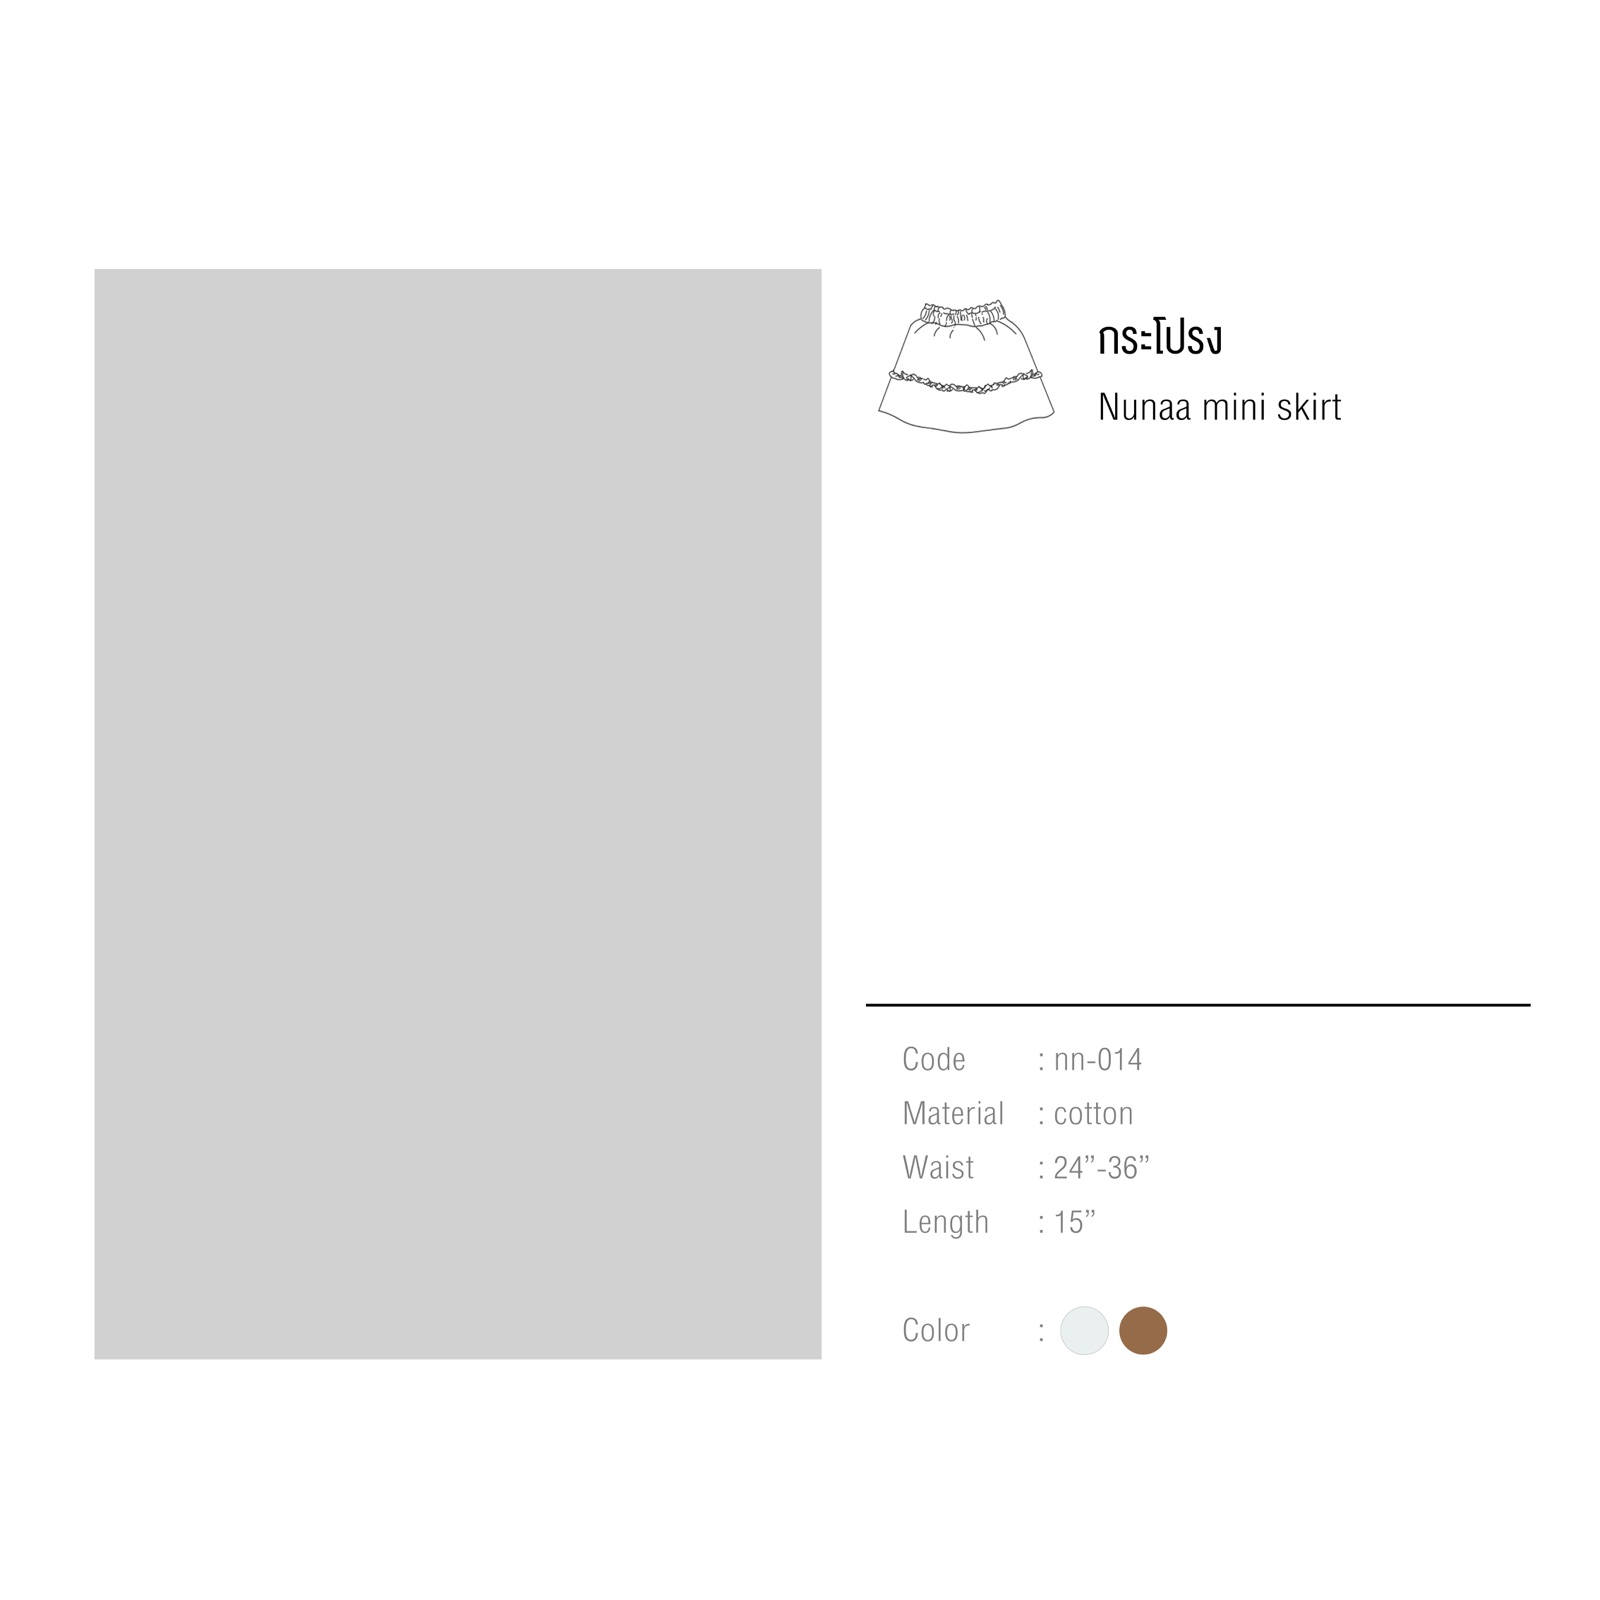
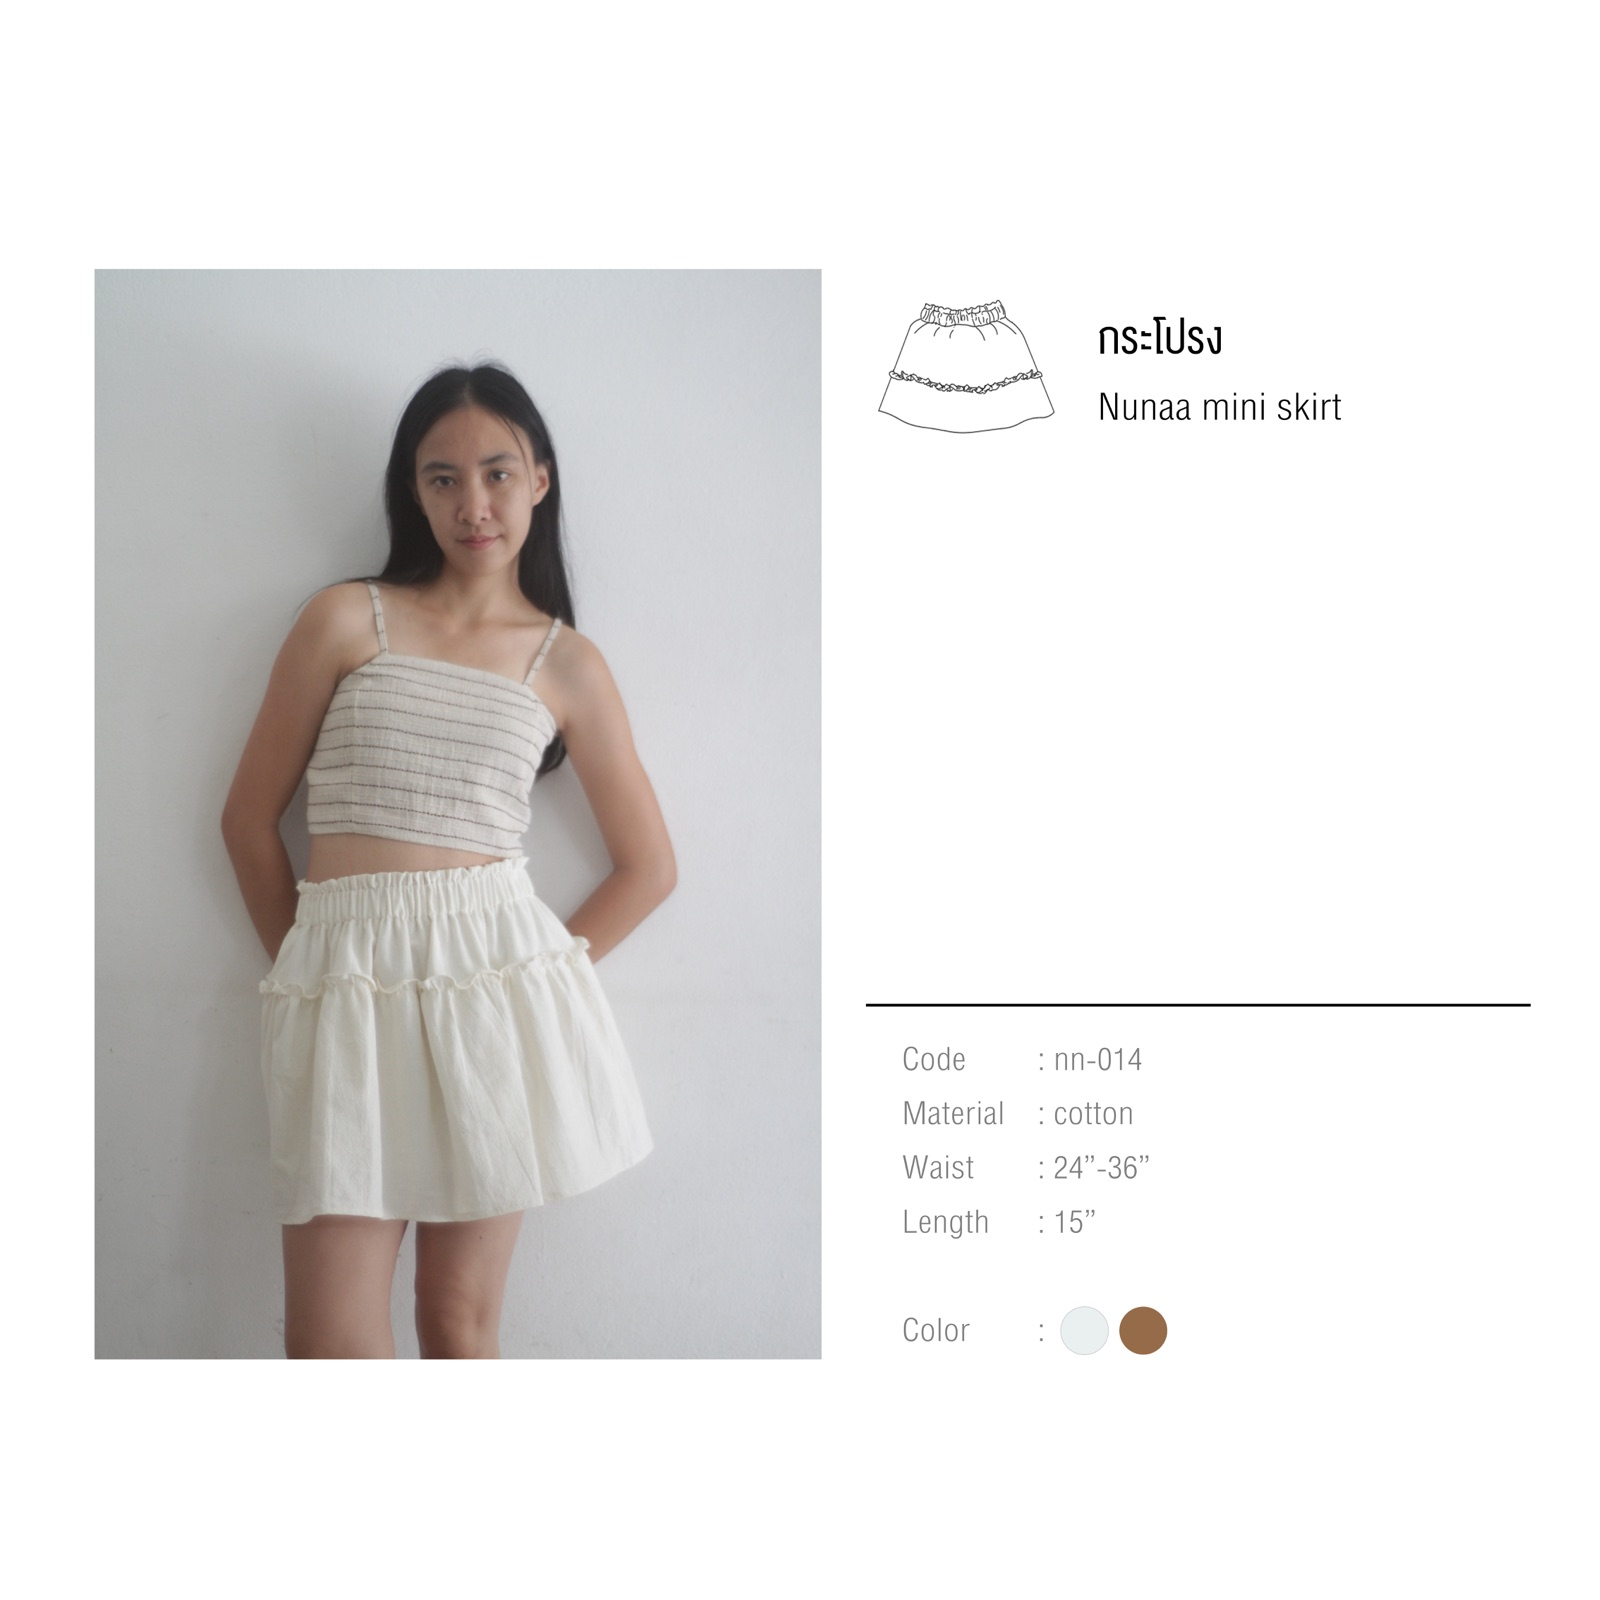
Refresh product images and add linen variants

Changed region(s): [[0.0312, 0.1562, 0.4375, 0.875]]

diff --git a/assets/js/app.js b/assets/js/app.js
@@ -40,6 +40,32 @@ function getColors(keys) {
   return keys.map(key => ({ key, ...colorOptions[key] }));
 }
 
+const PRODUCT_IMAGE_VERSION = '20260721-4';
+
+function getProductImageUrl(image) {
+  const url = String(image || '');
+  if (!url) return '';
+  return `${url}${url.includes('?') ? '&' : '?'}v=${PRODUCT_IMAGE_VERSION}`;
+}
+
+const stoneWashColorOptions = [
+  {
+    key: 'stoneWashA',
+    name: 'A',
+    value: 'repeating-linear-gradient(90deg, #6685a3 0 6px, #9aafc2 6px 10px, #3f6486 10px 15px)'
+  },
+  {
+    key: 'stoneWashB',
+    name: 'B',
+    value: 'repeating-linear-gradient(0deg, #2f4f72 0 5px, #607c9b 5px 9px, #263f60 9px 14px)'
+  },
+  {
+    key: 'stoneWashC',
+    name: 'C',
+    value: 'repeating-linear-gradient(90deg, #6f8daa 0 5px, #b6c4d0 5px 9px, #4f708f 9px 13px)'
+  }
+];
+
 const flowerColorOptions = [
   {
     key: 'flowerA',
@@ -142,19 +168,70 @@ const linenColorOptions = [
   {
     key: 'linen23A',
     name: 'A',
+    image: 'assets/images/patterns/linen-a.jpeg?v=20260714-pattern-hover-images',
     value: "url('assets/images/patterns/linen-a.jpeg?v=20260711-linen') center / cover no-repeat"
   },
   {
     key: 'linen23B',
     name: 'B',
+    image: 'assets/images/patterns/linen-b.jpeg?v=20260714-pattern-hover-images',
     value: "url('assets/images/patterns/linen-b.jpeg?v=20260711-linen') center / cover no-repeat"
   },
   {
     key: 'linen23C',
     name: 'C',
+    image: 'assets/images/patterns/linen-c.jpeg?v=20260714-pattern-hover-images',
     value: "url('assets/images/patterns/linen-c.jpeg?v=20260711-linen') center / cover no-repeat"
   }
 ];
+
+const nn005LinenColorOptions = ['a', 'b', 'c', 'd'].map((suffix, index) => ({
+  key: `linen05${String.fromCharCode(65 + index)}`,
+  name: String.fromCharCode(65 + index),
+  image: `assets/images/patterns/linen-005-${suffix}.jpeg?v=20260721-linen-variants`,
+  value: `url('assets/images/patterns/linen-005-${suffix}.jpeg?v=20260721-linen-variants') center / cover no-repeat`
+}));
+
+const nn018LinenColorOptions = ['a', 'b', 'c', 'd', 'e', 'f', 'g', 'h'].map((suffix, index) => ({
+  key: `linen18${String.fromCharCode(65 + index)}`,
+  name: String.fromCharCode(65 + index),
+  image: `assets/images/patterns/linen-018-${suffix}.jpeg?v=20260721-linen-variants`,
+  value: `url('assets/images/patterns/linen-018-${suffix}.jpeg?v=20260721-linen-variants') center / cover no-repeat`
+}));
+
+const nn026LinenColorOptions = ['a', 'b', 'c', 'd'].map((suffix, index) => ({
+  key: `linen26${String.fromCharCode(65 + index)}`,
+  name: String.fromCharCode(65 + index),
+  image: `assets/images/patterns/linen-026-${suffix}.jpeg?v=20260721-linen-variants`,
+  value: `url('assets/images/patterns/linen-026-${suffix}.jpeg?v=20260721-linen-variants') center / cover no-repeat`
+}));
+
+function mergePatternStocks(options, sourceColors = []) {
+  const source = Array.isArray(sourceColors) ? sourceColors : [];
+
+  return options.map((color, index) => {
+    const sourceColor = source.find(item => item.name === color.name || item.colorName === color.name)
+      || (source.length === options.length ? source[index] : {});
+    const rawStock = sourceColor.stock;
+
+    return {
+      ...color,
+      stock: rawStock === undefined || rawStock === '' ? undefined : Number(rawStock)
+    };
+  });
+}
+
+function getNn005Colors(sourceColors = []) {
+  return mergePatternStocks(nn005LinenColorOptions, sourceColors);
+}
+
+function getNn018Colors(sourceColors = []) {
+  return mergePatternStocks(nn018LinenColorOptions, sourceColors);
+}
+
+function getNn026Colors(sourceColors = []) {
+  return mergePatternStocks(nn026LinenColorOptions, sourceColors);
+}
 
 function getLinenColors(sourceColors = []) {
   const source = Array.isArray(sourceColors) ? sourceColors : [];
@@ -227,8 +304,8 @@ let products = [
     name: 'Spaghetti crop top linen fabric',
     price: 290,
     detail: 'Linen • Chest 26"-36"',
-    colors: getColors(colorSets.linenPattern),
-    image: 'assets/images/products/nn-005-spaghetti-crop-top-linen.jpeg'
+    colors: getNn005Colors(),
+    image: 'assets/images/products/nn-005-spaghetti-crop-top-linen-v2.jpeg'
   },
   {
     id: 6,
@@ -309,7 +386,7 @@ let products = [
     price: 290,
     detail: 'Cotton • Waist 24"-36"',
     colors: getColors(['white', 'brown']),
-    image: 'assets/images/products/nn-014-nunaa-mini-skirt.jpeg'
+    image: 'assets/images/products/nn-014-nunaa-mini-skirt-v2.jpeg'
   },
   {
     id: 15,
@@ -344,8 +421,8 @@ let products = [
     name: 'Smock tube top with straps',
     price: 320,
     detail: 'Cotton with linen • Chest 24"-36"',
-    colors: getColors(colorSets.linenPattern),
-    image: 'assets/images/products/nn-018-smock-tube-basic-stripes.jpeg'
+    colors: getNn018Colors(),
+    image: 'assets/images/products/nn-018-smock-tube-basic-stripes-v2.jpeg'
   },
   {
     id: 19,
@@ -416,7 +493,7 @@ let products = [
     name: 'Long sleeve crop top linen',
     price: 420,
     detail: 'Linen • Chest 24"-36"',
-    colors: getColors(colorSets.linenPattern),
+    colors: getNn026Colors(),
     image: 'assets/images/products/nn-026-long-sleeve-crop-top-linen.jpeg'
   },
   {
@@ -427,15 +504,53 @@ let products = [
     detail: 'Cotton • Chest 40"',
     colors: getColors(['white', 'cream', 'blueGray', 'black']),
     image: 'assets/images/products/nn-027-nunaa-cotton-coat.jpeg'
+  },
+  {
+    id: 28,
+    code: 'nn-028',
+    name: 'Mini dress',
+    price: 350,
+    detail: 'Cotton • Chest 28"-38" • Length 30"',
+    colors: getColors(['white', 'cream', 'green', 'black']),
+    image: 'assets/images/products/nn-028-mini-dress.jpeg'
+  },
+  {
+    id: 29,
+    code: 'nn-029',
+    name: 'Mini dress with button',
+    price: 350,
+    detail: 'Cotton • Chest 28"-38" • Length 30"',
+    colors: getColors(['white', 'black']),
+    image: 'assets/images/products/nn-029-mini-dress-button.jpeg'
+  },
+  {
+    id: 30,
+    code: 'nn-030',
+    name: 'Mini dress with button (Stone wash fabric)',
+    price: 450,
+    detail: 'Cotton • Chest 28"-38" • Length 30"',
+    colors: stoneWashColorOptions,
+    image: 'assets/images/products/nn-030-mini-dress-button-stone-wash.jpeg'
   }
 ];
 
 const productOverrides = {
+  'nn-005': {
+    image: 'assets/images/products/nn-005-spaghetti-crop-top-linen-v2.jpeg',
+    colors: getNn005Colors
+  },
   'nn-013': {
     colors: getNn013Colors
   },
   'nn-015': {
     colors: getNn015Colors
+  },
+  'nn-018': {
+    image: 'assets/images/products/nn-018-smock-tube-basic-stripes-v2.jpeg',
+    colors: getNn018Colors
+  },
+  'nn-026': {
+    colors: getNn026Colors
   },
   'nn-019': {
     name: 'Spaghetti crop top (Flowers collection)',
@@ -1254,7 +1369,7 @@ function refreshProductStockDisplays() {
 function renderColorSwatches(product, context) {
   return product.colors.map((color, index) => `
     <button
-      class="color-swatch${color.key?.startsWith('flower') || color.key?.startsWith('linen23') ? ' pattern-swatch' : ''}${index === (selectedColors.get(product.id) || 0) ? ' selected' : ''}"
+      class="color-swatch${color.key?.startsWith('flower') || color.key?.startsWith('linen23') || color.key?.startsWith('linen05') || color.key?.startsWith('linen18') || color.key?.startsWith('linen26') ? ' pattern-swatch' : ''}${color.image ? ' has-image-preview' : ''}${index === (selectedColors.get(product.id) || 0) ? ' selected' : ''}"
       type="button"
       data-id="${product.id}"
       data-color-index="${index}"
@@ -1266,6 +1381,7 @@ function renderColorSwatches(product, context) {
       ${isColorAvailable(product, color) ? '' : 'disabled'}
     >
       <span style="background: ${color.value};"></span>
+      ${color.image ? `<img class="swatch-image-preview" src="${color.image}" alt="" aria-hidden="true">` : ''}
     </button>
   `).join('');
 }
@@ -1559,7 +1675,7 @@ function renderProducts() {
   productGrid.innerHTML = products.map(product => `
     <article class="product-card${getProductAvailability(product) ? '' : ' sold-out'}" data-product-id="${product.id}">
       <button class="product-image product-detail-trigger" type="button" data-id="${product.id}" data-detail-label="${t('product.viewDetails')}" aria-label="${t('product.viewDetails')} ${product.name}">
-        <img src="${product.image}" alt="${product.name}" loading="lazy">
+        <img src="${getProductImageUrl(product.image)}" alt="${product.name}" loading="lazy">
       </button>
       <div class="product-meta">
         <div>
@@ -1614,7 +1730,7 @@ function renderProductDetail(product) {
   productModalContent.innerHTML = `
     <article class="product-detail" data-product-id="${product.id}">
       <div class="product-detail-image">
-        <img src="${product.image}" alt="${product.name}">
+        <img src="${getProductImageUrl(product.image)}" alt="${product.name}">
       </div>
       <div class="product-detail-info">
         <span class="product-code">${product.code}</span>

diff --git a/assets/css/style.css b/assets/css/style.css
@@ -241,6 +241,38 @@ button.product-image:focus-visible::after {
 .color-swatch:nth-last-child(-n + 3):focus-visible::after {
   transform: translate(0, -50%) scale(1);
 }
+.color-swatch.has-image-preview::after { display: none; }
+.swatch-image-preview {
+  position: absolute;
+  z-index: 20;
+  left: calc(100% + 10px);
+  top: 50%;
+  width: 116px;
+  height: 116px;
+  border: 5px solid var(--paper);
+  border-radius: 18px;
+  object-fit: cover;
+  background: #f3eee7;
+  box-shadow: 0 12px 32px rgba(42, 33, 27, .24);
+  opacity: 0;
+  pointer-events: none;
+  transform: translate(8px, -50%) scale(.92);
+  transition: opacity .16s ease, transform .16s ease;
+}
+.color-swatch:hover .swatch-image-preview,
+.color-swatch:focus-visible .swatch-image-preview {
+  opacity: 1;
+  transform: translate(0, -50%) scale(1);
+}
+.color-swatch:nth-last-child(-n + 3) .swatch-image-preview {
+  right: calc(100% + 10px);
+  left: auto;
+  transform: translate(-8px, -50%) scale(.92);
+}
+.color-swatch:nth-last-child(-n + 3):hover .swatch-image-preview,
+.color-swatch:nth-last-child(-n + 3):focus-visible .swatch-image-preview {
+  transform: translate(0, -50%) scale(1);
+}
 .color-swatch.pattern-swatch {
   width: 44px;
   height: 44px;

diff --git a/index.html b/index.html
@@ -10,7 +10,7 @@
   <meta property="og:type" content="website" />
   <meta property="og:url" content="https://nunaacollection.com" />
   <link rel="canonical" href="https://nunaacollection.com" />
-  <link rel="stylesheet" href="assets/css/style.css?v=20260714-nn015-sizes" />
+  <link rel="stylesheet" href="assets/css/style.css?v=20260721-products" />
 </head>
 <body>
   <header class="site-header">
@@ -212,6 +212,6 @@
   </footer>
 
   <script src="assets/js/config.js?v=20260711-new-sheets-url"></script>
-  <script src="assets/js/app.js?v=20260714-nn015-sizes"></script>
+  <script src="assets/js/app.js?v=20260721-products-4"></script>
 </body>
 </html>
